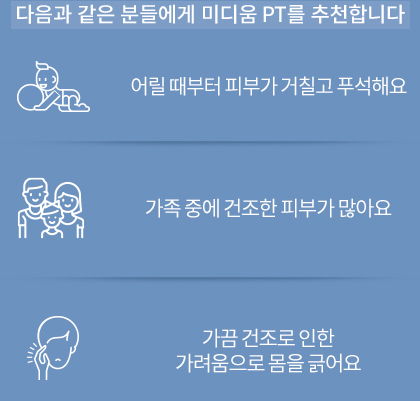
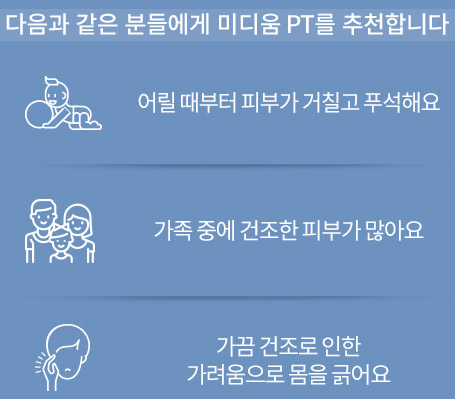
이미지 교체:

diff --git a/m/css/style.css b/m/css/style.css
@@ -990,7 +990,10 @@ html.popup-opened {
 	text-align: center;
 	width: 100%;
 	height: 100%;
-	padding: 23px 20px 0;
+	padding: 17px 0 0;
+}
+.popup.pt-pass .tab-block .content img {
+	width: 227px;
 }
 .popup.pt-pass .tab-block .content.light {background: #aecce5;}
 .popup.pt-pass .tab-block .content.medium {background: #6d92bf;}
